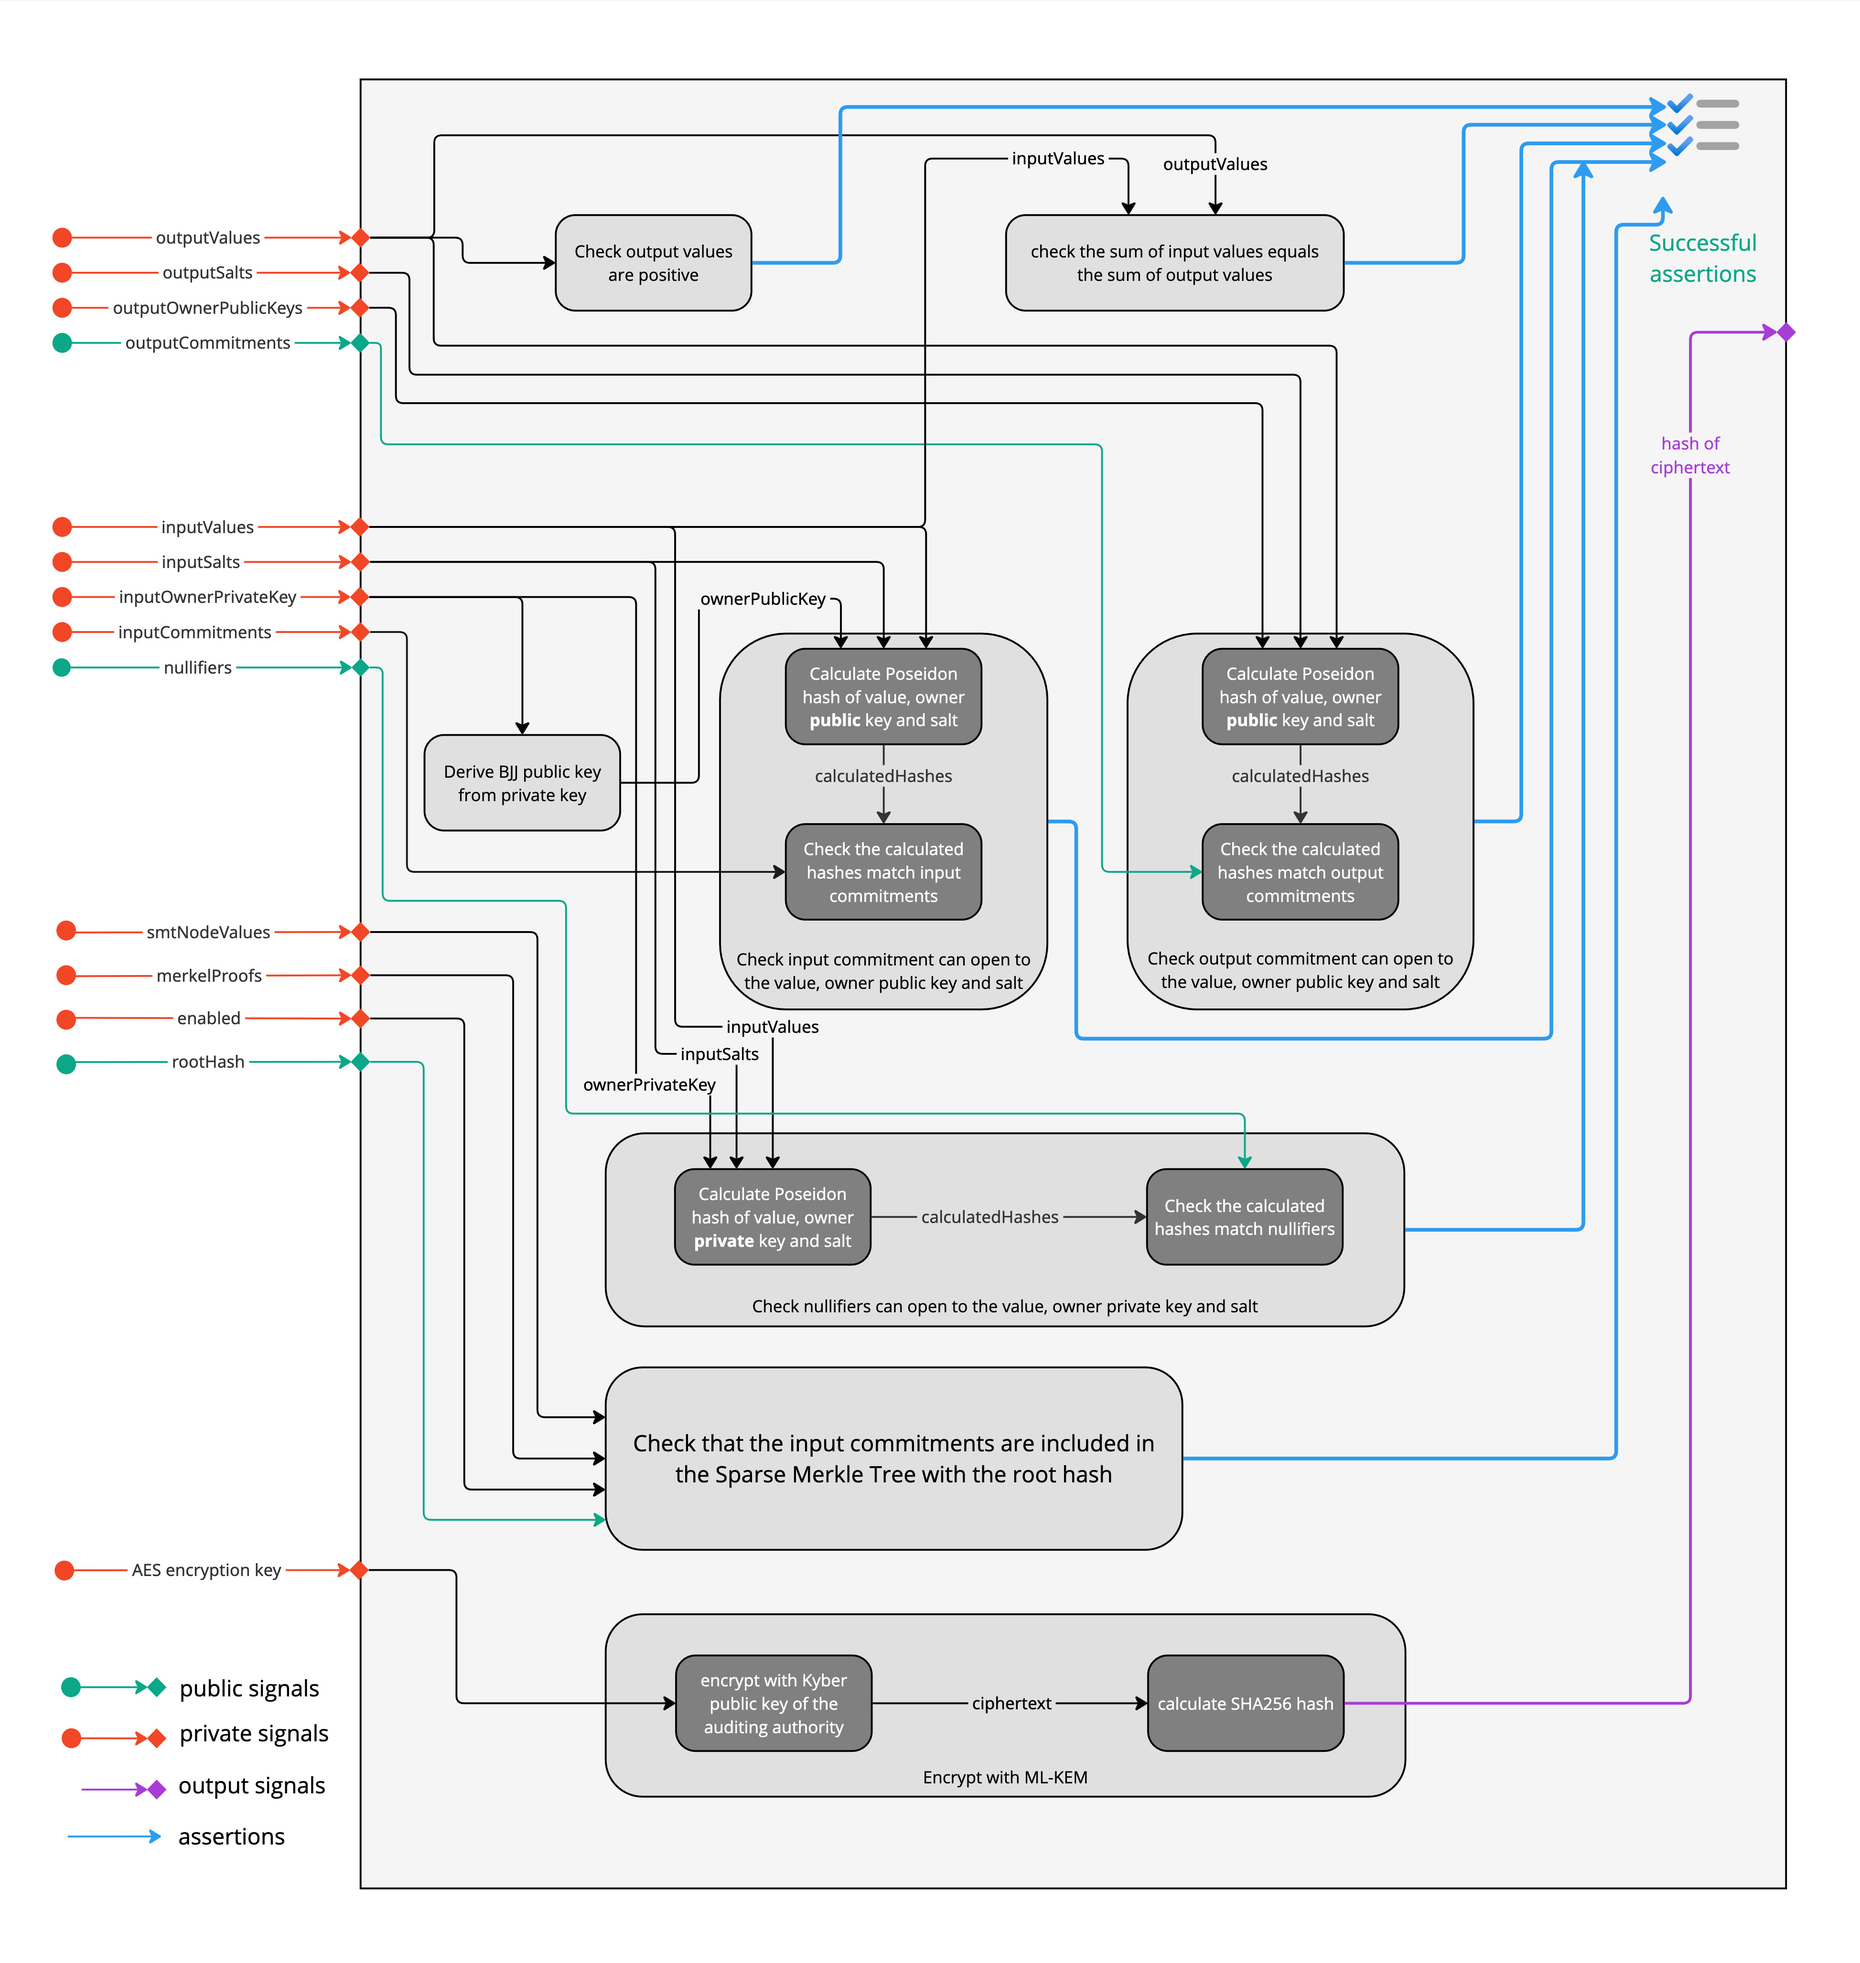
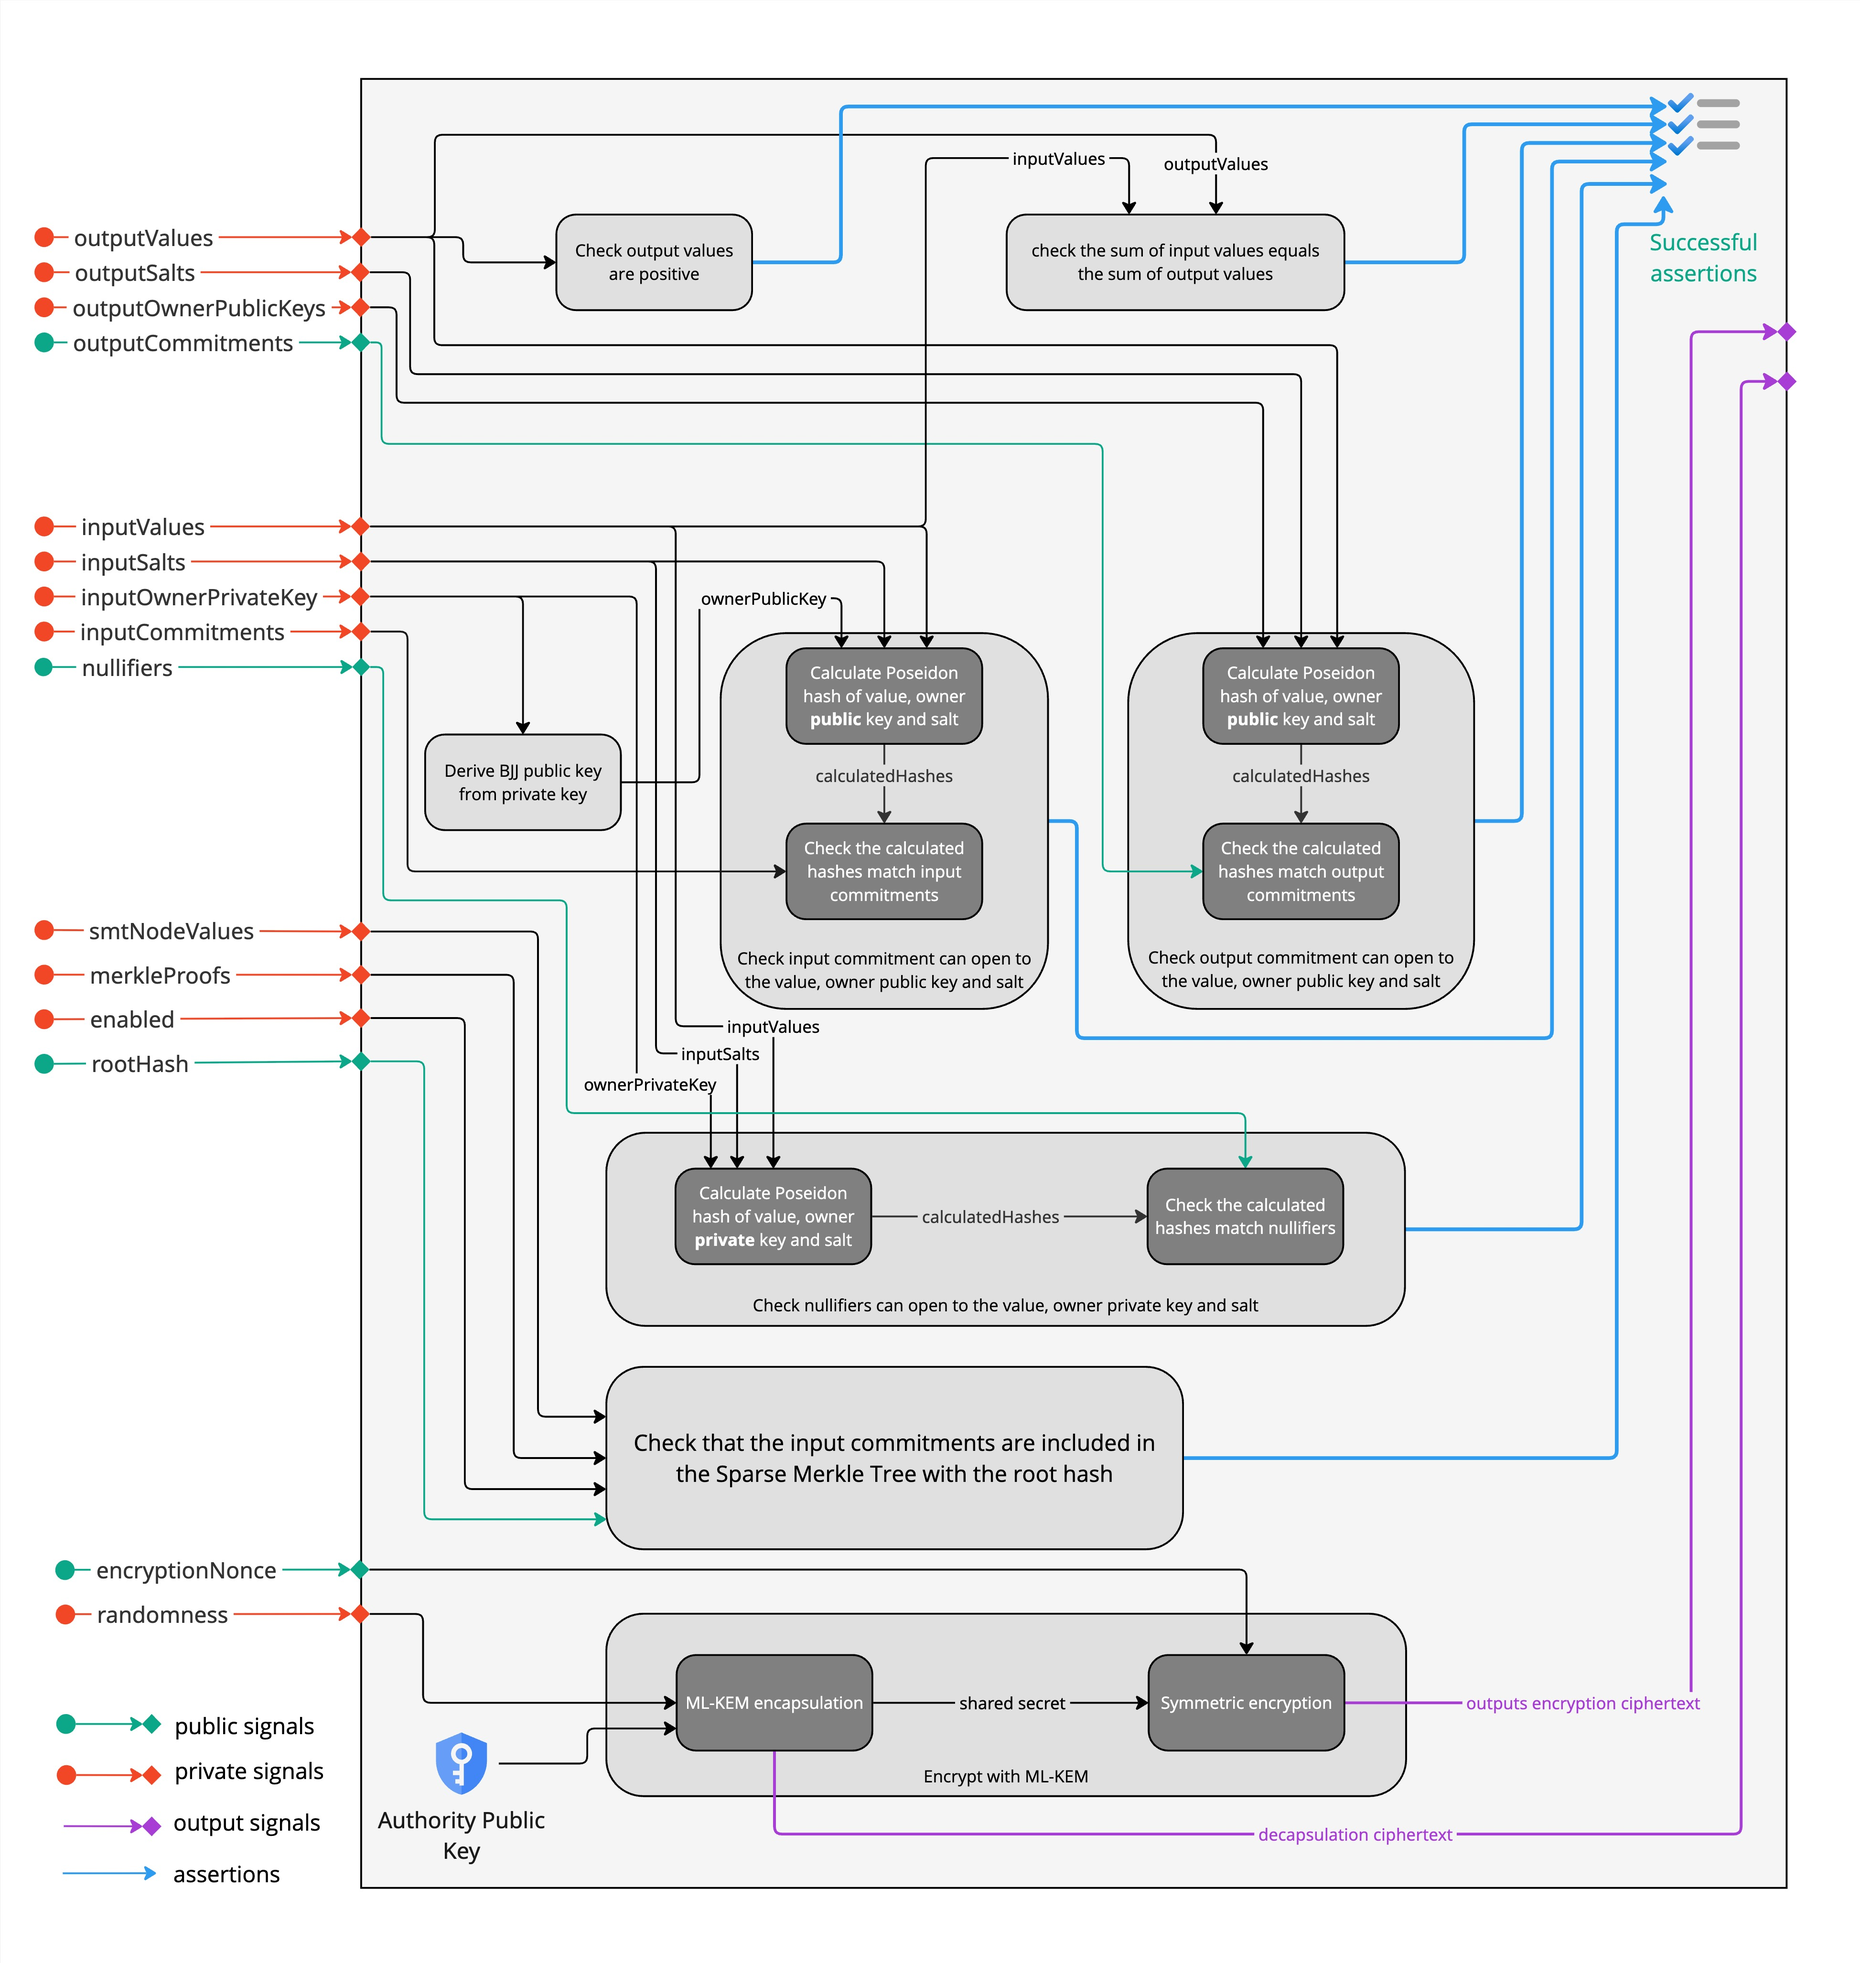
update generateQurrencyKey.js to print h(ek)

diff --git a/zkp/circuits/scripts/generateQurrencyKey.js b/zkp/circuits/scripts/generateQurrencyKey.js
@@ -1,4 +1,6 @@
 const { polyFromBytes, MlKem512 } = require('crystals-kyber-js');
+const { bytesToBits } = require('../../js/lib/util.js');
+const { sha3_256 } = require('@noble/hashes/sha3');
 
 async function generateQurrencyKey() {
   let m = new MlKem512();
@@ -13,6 +15,10 @@ async function generateQurrencyKey() {
 
   let a = m.sampleMatrix(rho, false);
 
+  const pkR = new Uint8Array(ek);
+  const pkHash = h(pkR);
+  const pkHashBits = bytesToBits(pkHash);
+
   console.log(`t[0]: [${t0_out.slice(0, 256)}]\n`);
   console.log(`t[1]: [${t1_out.slice(0, 256)}]\n`);
   console.log(`a[0][0]: [${a[0][0].slice(0, 256)}]\n`);
@@ -20,7 +26,15 @@ async function generateQurrencyKey() {
   console.log(`a[1][0]: [${a[1][0].slice(0, 256)}]\n`);
   console.log(`a[1][1]: [${a[1][1].slice(0, 256)}]\n`);
   console.log(`PUBLIC KEY: [${ek}]\n`);
-  console.log(`SECRET KEY: [${dk}]`);
+  console.log(`SECRET KEY: [${dk}]\n`);
+  console.log(`PUBLIC KEY HASH: [${pkHashBits}]\n`);
+}
+
+// copied from node_modules/mlkem/script/src/mlKemBase.js
+function h(pk) {
+  const hash = sha3_256.create();
+  hash.update(pk);
+  return hash.digest();
 }
 
 generateQurrencyKey()

diff --git a/zkp/js/test/lib/mlkem_g.js b/zkp/js/test/lib/mlkem_g.js
@@ -35,6 +35,13 @@ describe('mlkem protocol G(m || H(ek)) circuit tests', () => {
     expect(pkHash).deep.equal(new Uint8Array(hashOfEkBytes));
   });
 
+  it('verify the hash function in the generateQurrencyKey script', async () => {
+    const pkR = new Uint8Array(testKeyPair.pk);
+    const pkHash = h(pkR);
+    const bits = bytesToBits(pkHash);
+    expect(bits).deep.equal(testKeyPair.hpk);
+  });
+
   it('should generate the right K and r signals', async () => {
     const randomness = [59, 33, 225, 54, 96, 22, 97, 134, 55, 158, 65, 251, 97, 133, 236, 153, 194, 58, 180, 157, 136, 222, 78, 71, 187, 20, 156, 248, 106, 26, 179, 146];
 

diff --git a/doc-site/docs/implementations/anon_nullifier_qurrency.md b/doc-site/docs/implementations/anon_nullifier_qurrency.md
@@ -8,31 +8,29 @@
 
 This implementation builds on top of the `anon_nullifiers` to add post-quantum cryptography inside the circuit to encrypt sensitive information for a designated authority, such as a regulator, for auditing purposes.
 
-To implement post-quantum secure encryption, these circuits use the public key encryption scheme internal to ML-KEM (Module-Lattice-Based Key-Encapsulation Mechanism), which is derived from the CRYSTALS-KYBER algorithm. This algorithm has been selected by NIST for standardization of post-quantum secure encryption, meaning even quantum computers cannot break the cryptosystem.
+To implement post-quantum secure encryption, these circuits use the public key encryption scheme in ML-KEM (Module-Lattice-Based Key-Encapsulation Mechanism), which is derived from the CRYSTALS-KYBER algorithm. This algorithm has been selected by NIST for standardization of post-quantum secure encryption, meaning even quantum computers cannot break the cryptosystem.
 
 The encryption is performed in the follow step, according to the ML-KEM scheme:
 
-- An AES-256 encryption key is generated for the transaction. This key is used only for this transaction
-  - AES-256 is a quantum-secure block cipher.
-- The secrets meant for the auditing authority are encrypted with this key, and sent as part of the transaction payload
-- The key is passed into the circuit as a private input and encrypted inside the circuit under the ML-KEM scheme, using the auditing authority's public key
+- A 256-bit randomness is generated, and used as a private input to the ZKP circuit, which carries out the ML-KEM key encapsulation protocol along with the public key of the auditing authority
   - The public key is statically programmed into the circuit. This is to avoid making it a signal which would be very inefficient due to the large size of the public key (1184 bytes)
   - <span style="color:red">IMPORTANT:</span> This means for a real world deployment, the deployer MUST update the circuit with the auditing authority's public key and re-compile the circuit
-- The ciphertext is extracted from the circuit's witness array and sent as a part of the transaction payload
-- The circuit also calculates the SHA256 hash of the ciphertext to use as a public input, instead of using the ciphertext itself as a public input
-  - This is an optimization step. The ciphertext is a large array of 768 numbers (of value 0 or 1), to represent the 768-bit ciphertext, which would make proof verification more expensive
-  - The SHA256 hashing algorithm is picked to make verification inside EVM more efficient, due to the native sha256 support via EVM precompiles.
-- The authority can then use the private key to decrypt the ciphertext to recover the AES encryption key, then use the recovered key to decrypt the AES ciphertext to recover the secrets
+- The result of the ML-KEM protocol is a 256-bit shared secret
+  - In addition, a ciphertext is also generated to be shared with the receiver (the auditing authority) to recover the shared secret
+- The secrets targeted for the auditing authority are encrypted with this shared secret, and sent as part of the transaction payload
+- The ciphertext for the encrypted secrets, and the ciphertext for the ML-KEM decapsulation (the process to recover the shared secret) are returned by the circuit as output signals
+- The auditing authority can then use their private key, along with the ML-KEM ciphertext which is included in the emitted blockchain event, to recover the shared secret via the ML-KEM decapsulation protocol
+  - The recovered shared secret can then be used to decrypt the ciphertext of the transaction output, giving the auditing authority full information about the secrets involved in the transaction
 
 The statements in the proof include:
 
-- each value in the output commitments must be a positive number in the range 0 ~ (2\*\*40 - 1)
+- each value in the output commitments must be a positive number in the range 0 ~ (2\*\*100 - 1)
 - the sum of the nullified values match the sum of output values
 - the hashes in the output match the hash(value, salt, owner public key) formula
 - the sender possesses the private BabyJubjub key, whose public key is part of the pre-image of the input commitment hashes, which match the corresponding nullifiers
 - the nullifiers represent input commitments that are included in a Sparse Merkle Tree represented by the root hash
-- the AES encryption key is correctly encrypted using the auditing authority's public key, resulting in the ciphretext
-- the public signals representing the SHA256 hash of the ciphertext is correctly calculated
+- the auditing authority's public key was correctly used in the ML-KEM encapsulation protocol, resulting in the ciphretext for decapsulation
+- the shared secret, resulted from the above ML-KEM encapsulation protocol, was correctly used to encrypt the secrets in the transaction outputs
 
 [![wiring_anon_nullifier_qurrency](../images/circuit_wiring_anon_nullifier_qurrency.jpg)](../images/circuit_wiring_anon_nullifier_qurrency.jpg)
 

diff --git a/doc-site/docs/implementations/anon_enc_nullifier_non_repudiation.md b/doc-site/docs/implementations/anon_enc_nullifier_non_repudiation.md
@@ -12,7 +12,7 @@ This implementation pattern addresses that concern by encrypting the ownership i
 
 The statements in the proof include:
 
-- each value in the output commitments must be a positive number in the range 0 ~ (2\*\*40 - 1)
+- each value in the output commitments must be a positive number in the range 0 ~ (2\*\*100 - 1)
 - the sum of the nullified values match the sum of output values
 - the hashes in the output match the hash(value, salt, owner public key) formula
 - the sender possesses the private BabyJubjub key, whose public key is part of the pre-image of the input commitment hashes, which match the corresponding nullifiers

diff --git a/doc-site/docs/implementations/anon_nullifier_kyc.md b/doc-site/docs/implementations/anon_nullifier_kyc.md
@@ -12,7 +12,7 @@ The implementation of this pattern maintains a KYC registry in the smart contrac
 
 The statements in the proof include:
 
-- each value in the output commitments must be a positive number in the range 0 ~ (2\*\*40 - 1)
+- each value in the output commitments must be a positive number in the range 0 ~ (2\*\*100 - 1)
 - the sum of the nullified values match the sum of output values
 - the hashes in the output match the hash(value, salt, owner public key) formula
 - the sender possesses the private BabyJubjub key, whose public key is part of the pre-image of the input commitment hashes, which match the corresponding nullifiers

diff --git a/doc-site/docs/implementations/anon_enc_nullifier.md b/doc-site/docs/implementations/anon_enc_nullifier.md
@@ -8,7 +8,7 @@ This implementation adds encryption, as described in the section above for Zeto_
 
 The statements in the proof include:
 
-- each value in the output commitments must be a positive number in the range 0 ~ (2\*\*40 - 1)
+- each value in the output commitments must be a positive number in the range 0 ~ (2\*\*100 - 1)
 - the sum of the nullified values match the sum of output values
 - the hashes in the output match the hash(value, salt, owner public key) formula
 - the sender possesses the private BabyJubjub key, whose public key is part of the pre-image of the input commitment hashes, which match the corresponding nullifiers

diff --git a/doc-site/docs/implementations/anon_enc_nullifier_kyc.md b/doc-site/docs/implementations/anon_enc_nullifier_kyc.md
@@ -8,7 +8,7 @@ This implementation adds encryption, as described in the section above for Zeto_
 
 The statements in the proof include:
 
-- each value in the output commitments must be a positive number in the range 0 ~ (2\*\*40 - 1)
+- each value in the output commitments must be a positive number in the range 0 ~ (2\*\*100 - 1)
 - the sum of the nullified values match the sum of output values
 - the hashes in the output match the hash(value, salt, owner public key) formula
 - the sender possesses the private BabyJubjub key, whose public key is part of the pre-image of the input commitment hashes, which match the corresponding nullifiers

diff --git a/doc-site/docs/implementations/anon_enc.md b/doc-site/docs/implementations/anon_enc.md
@@ -8,7 +8,7 @@ This verison of the ZKP circuit adds encryption that makes it possible to provid
 
 The statements in the proof include:
 
-- each value in the output commitments must be a positive number in the range 0 ~ (2\*\*40 - 1)
+- each value in the output commitments must be a positive number in the range 0 ~ (2\*\*100 - 1)
 - the sum of the input values match the sum of output values
 - the hashes in the input and output match the hash(value, salt, owner public key) formula
 - the sender possesses the private BabyJubjub key, whose public key is part of the pre-image of the input commitment hashes
